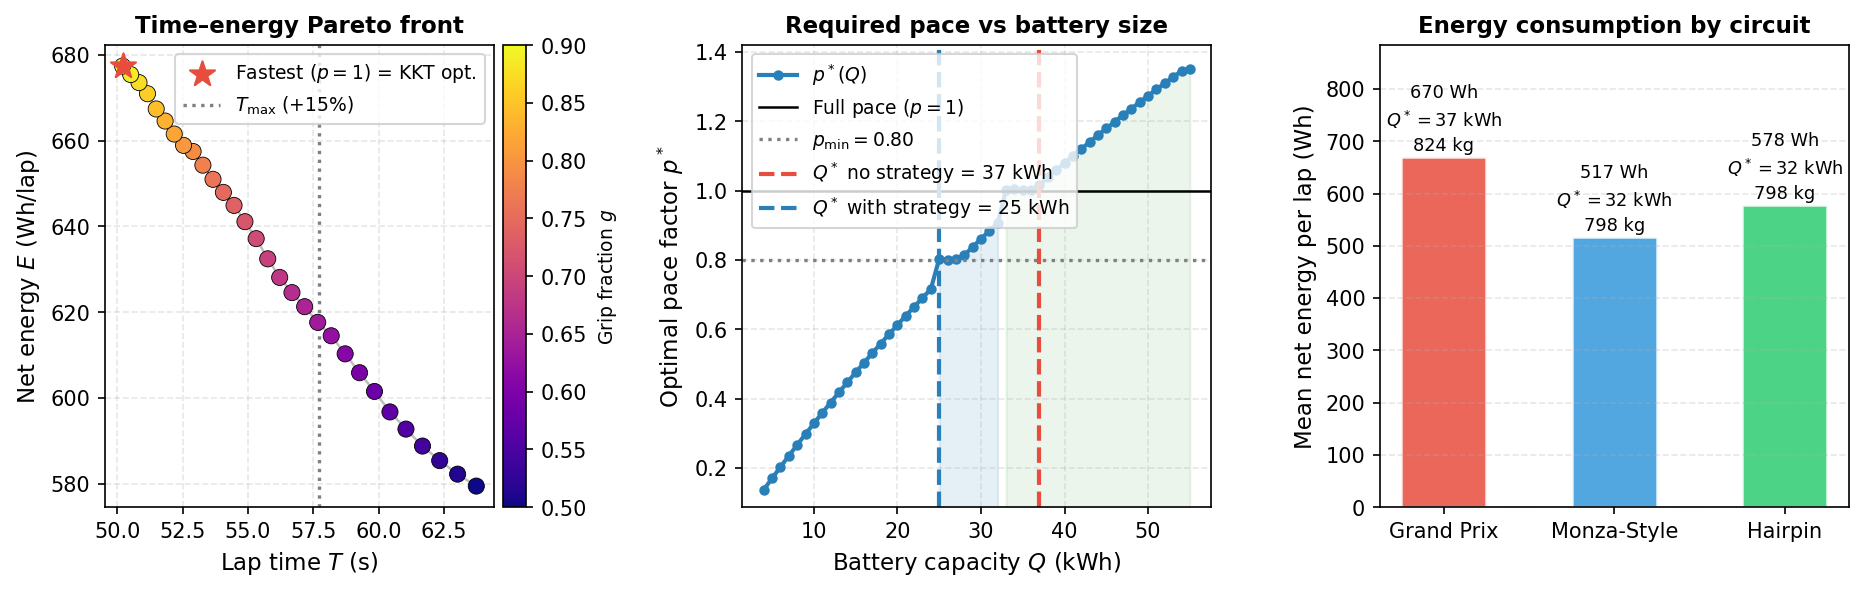
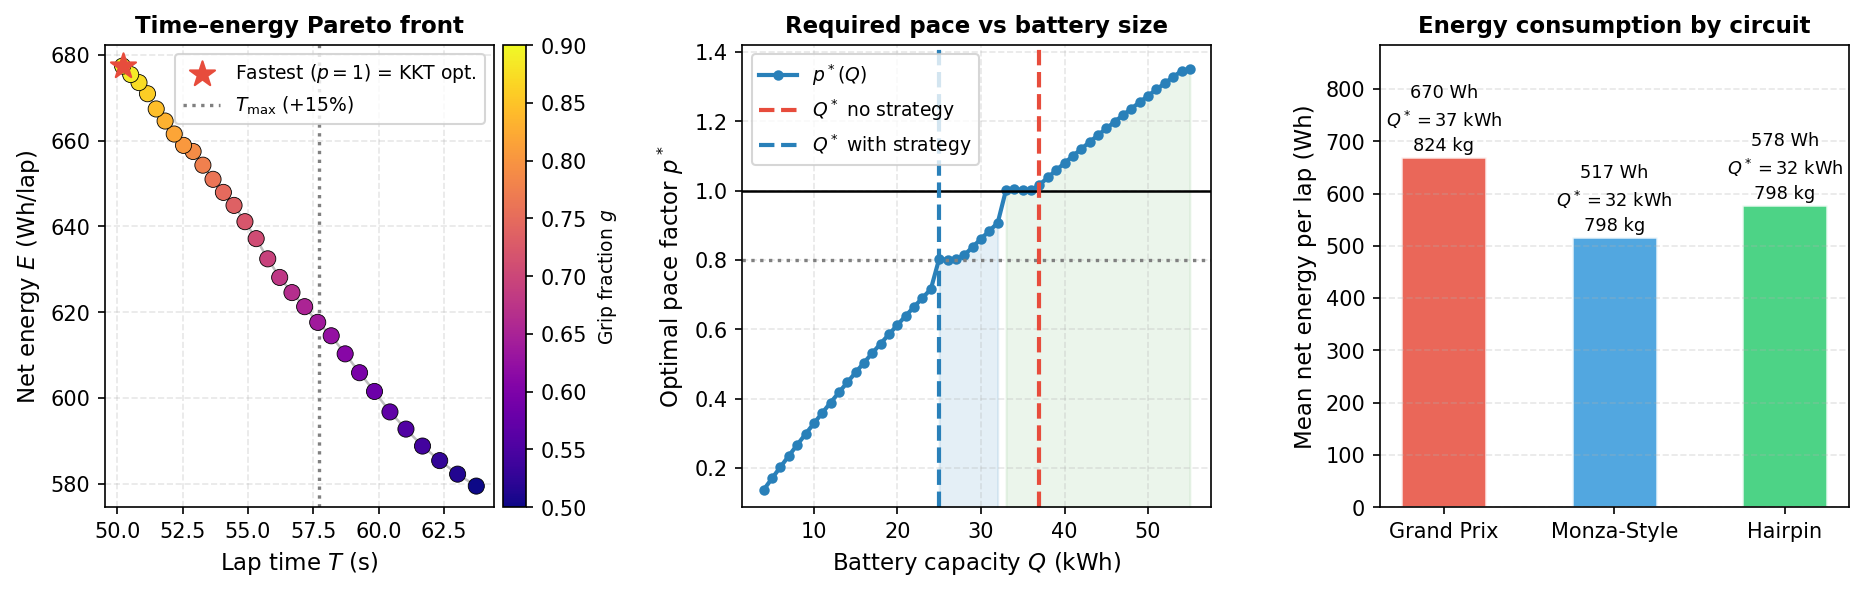
Polish report language, simplify abstract, fix legend overlap
- Simplify abstract: remove redundant numbers, keep 3s/32%/60kg
- Reframe model hierarchy as design choice (not limitation)
- Smooth SCP results sentence, soften KKT assumption wording
- Rewrite battery sizing paragraph for clarity
- Replace 'forward-backward pass' with 'kinematic speed profile'
- Remove numeric Q* values from middle panel legend
- Fix stray Unicode ≈ character in figure caption

Changed region(s): [[0.4047, 0.152, 0.5915, 0.3953]]

diff --git a/report/final_report.tex b/report/final_report.tex
@@ -34,13 +34,11 @@ custom Sequential Convex Programming (SCP) algorithm with a hand-coded Simplex s
 under uncertain grip; (4)~battery sizing for multi-lap races under mass-energy coupling; and
 (5)~race strategy co-optimization with a closed-form KKT solution for line choice and pace
 management.
-On a Monza-style circuit, SCP converges in 15 iterations to a 35.9\,s lap time --- substantially
-faster than SLSQP's $\sim$180 iterations --- while reaching a qualitatively similar solution.
-Grip uncertainty imposes a $\sim$3\,s lap-time penalty at the time-optimal point on the Monaco
-circuit, a cost that diminishes as energy efficiency is prioritized.
-Battery sizing yields a minimum feasible capacity of 37\,kWh (824\,kg) for a 51-lap race at full
-effort; pace management reduces this to 25\,kWh, saving 60\,kg of battery mass through
-analytically derived pace modulation under symmetric-race assumptions.%
+SCP converges 12$\times$ faster than SLSQP while reaching a comparable solution.
+Grip uncertainty imposes a $\sim$3\,s lap-time penalty at the time-optimal operating point, a cost
+that diminishes as energy efficiency is prioritized.
+Pace management reduces the minimum feasible battery capacity by 32\% through a
+closed-form KKT strategy under symmetric-race assumptions.%
 }
 \end{abstract}
 
@@ -72,8 +70,8 @@ and strategy co-optimization.}
 \new{The framework spans five stages: trajectory design via SCP with a custom Simplex solver,
 multi-objective Pareto analysis, sampled worst-case robustification under uncertain grip,
 race-level battery sizing with mass-energy coupling, and closed-form KKT race strategy.
-Stages 1--3 use a fixed 1600\,kg kinematic model; Stages 4--5 adopt a 640\,kg chassis with a
-mass-coupled battery model --- a deliberate split discussed in the limitations.}
+Stages 1--3 use a fixed-mass kinematic model for trajectory optimization; Stages 4--5 switch to a
+mass-coupled battery model to capture the energy--mass coupling at race scale.}
 The optimized trajectories are subsequently tracked using a dynamic bicycle model and a
 Time-Varying Linear Quadratic Regulator (TV-LQR) to evaluate feasibility in closed-loop
 simulation.
@@ -213,16 +211,14 @@ making the robust problem no more expensive than the nominal one.
 \section{\new{Battery Sizing for Multi-Lap Racing}}\label{sec:sizing}
 % ─────────────────────────────────────────────────────────────────────────────
 
-\new{For a full race, the battery must store enough energy to complete all laps above
-$\mathrm{SoC}_{\min} = 5\%$. Battery capacity affects vehicle mass through
-$m = m_{\rm chassis} + Q_{\rm batt} / e_{\rm spec}$, which in turn raises
-energy consumption per lap — making the sizing problem non-trivial. We sweep
-$Q_{\rm batt} \in [15, 80]$\,kWh; for each value, a forward--backward speed profile computes
-$E_{\rm lap}$ using a parabolic motor efficiency map (peak $\eta = 0.95$ at 60\% rated power). A configuration is feasible if}
+\new{For a full race, the battery must supply enough energy to complete all laps above
+$\mathrm{SoC}_{\min} = 5\%$. Since pack weight enters vehicle mass directly ($m = m_{\rm chassis} + Q_{\rm batt} / e_{\rm spec}$), a larger battery both increases available energy and raises per-lap consumption, coupling the sizing and performance problems.
+We sweep $Q_{\rm batt} \in [15, 80]$\,kWh; at each point, we simulate the lap energy $E_{\rm lap}$ from the kinematic speed profile
+using a parabolic motor efficiency map (peak $\eta = 0.95$ at 60\% rated power). A pack is feasible when}
 \begin{equation}\label{eq:feasibility}
   Q_{\rm batt}\,(1 - \mathrm{SoC}_{\min}) \;\geq\; n_{\rm laps} \cdot E_{\rm lap}(Q_{\rm batt})
 \end{equation}
-\new{and $Q^* = \min\{Q_{\rm batt} : \text{feasible}\}$ is the optimal capacity.}
+\new{and the minimum feasible capacity $Q^* = \min\{Q_{\rm batt} : \text{feasible}\}$ is the design target.}
 
 % ─────────────────────────────────────────────────────────────────────────────
 \section{\new{Race Strategy Co-Optimization}}\label{sec:strategy}
@@ -230,27 +226,31 @@ $E_{\rm lap}$ using a parabolic motor efficiency map (peak $\eta = 0.95$ at 60\%
 
 \new{We introduce two per-lap decision variables: a Pareto operating point $g \in [g_{\min},
 g_{\max}]$ controlling cornering aggressiveness, and a pace factor $p \in [p_{\min}, 1]$ scaling
-speed uniformly. Lap time and energy then scale as $T_{\rm lap} = T_{\rm base}(g)/p$ and
-$E_{\rm lap} = E_{\rm base}(g)\cdot p$, subject to the race energy budget:}
+speed uniformly. Lap time and energy scale as $T_{\rm lap} = T_{\rm base}(g)/p$ and
+$E_{\rm lap} = E_{\rm base}(g)\,p$, subject to the global energy budget:}
 \begin{equation}\label{eq:energy_constraint}
   \sum_{t=1}^{n} E_{\rm base}(g_t)\,p_t \;\leq\; Q_{\rm batt}(1 - \mathrm{SoC}_{\min})
 \end{equation}
+
 \new{For a symmetric race, KKT stationarity and complementary slackness~\cite{Kochenderfer2019}
-yield the closed-form optimum: the energy constraint is active, and the optimal line minimizes
-$T_{\rm base}(g)\cdot E_{\rm base}(g)$:}
+lead to a closed-form structure of the optimum. The energy constraint is active at optimality, and
+the optimal racing line minimizes the coupled time--energy metric:}
 \begin{equation}\label{eq:kkt}
   g^* = \arg\!\min_{g}\; T_{\rm base}(g)\,E_{\rm base}(g),
   \qquad
   p^* = \frac{Q_{\rm batt}(1-\mathrm{SoC}_{\min})}{n \cdot E_{\rm base}(g^*)}
 \end{equation}
-\new{with $p^*$ clipped to $[p_{\min}, 1]$ and a competitive constraint $T_{\rm base}(g) \leq
-1.15\,T_{\min}$. An NLP validation (SLSQP) yields a locally optimal solution consistent with the
-constant $(g^*, p^*)$ KKT prediction, supporting the closed-form result under the symmetric-race
-assumptions. Three assumptions underpin this result: (i)~all laps are identical (symmetric race);
-(ii)~the scaling $T_{\rm lap} = T_{\rm base}/p$ and $E_{\rm lap} = E_{\rm base}\cdot p$ is
-exact, which holds for uniform speed scaling but is an approximation when aerodynamic drag
-dominates; and (iii)~$T_{\rm base}(g)\cdot E_{\rm base}(g)$ is unimodal in $g$ over the
-feasible range, which is observed numerically but not analytically guaranteed.}
+
+\new{with $p^*$ clipped to $[p_{\min}, 1]$ and subject to the competitiveness constraint
+$T_{\rm base}(g) \leq 1.15\,T_{\min}$. An NLP validation (SLSQP) confirms a solution consistent
+with the constant $(g^*, p^*)$ structure predicted by the KKT conditions, supporting the closed-form
+result under symmetric-race assumptions.}
+
+\new{This derivation relies on three key assumptions: (i) all laps are identical (symmetry);
+(ii) linear scaling laws $T_{\rm lap} = T_{\rm base}/p$ and $E_{\rm lap} = E_{\rm base}\,p$,
+which are exact under uniform speed scaling but approximate when aerodynamic drag dominates; and
+(iii) the function $T_{\rm base}(g)\,E_{\rm base}(g)$ is unimodal over the feasible range, as
+consistently observed in numerical experiments.}
 
 % ─────────────────────────────────────────────────────────────────────────────
 \section{Dynamic Trajectory Tracking}
@@ -289,24 +289,10 @@ state.
 
 \subsection{SCP vs SLSQP Convergence}
 
-\new{Figure~\ref{fig:convergence} shows the convergence of both solvers on the Monza-style circuit (80
-stations, 1115\,m). Starting from a curvature-minimizing warm start at 44.5\,s, SCP reaches
+\new{Figure~\ref{fig:convergence} shows the convergence of both solvers on the Monza-style circuit. Starting from a curvature-minimizing warm start at 44.5\,s, SCP reaches
 35.9\,s in 15 iterations while SLSQP requires approximately 180 iterations to reach 35.4\,s. The
-$\sim$0.5\,s gap ($\approx$1.4\%) reflects a quality-speed tradeoff inherent to SCP: the tight
-trust region prevents the LP sub-problem from over-shooting and enables early convergence, leaving
-a small residual suboptimality relative to SLSQP's tighter line-search, in exchange for a
-12$\times$ reduction in iterations. A direct geometric overlay of the two racing lines would
-provide further validation, which we leave for future work.}
-
-\subsection{Time-Energy Pareto Front}
-
-Figure~\ref{fig:pareto} presents the nominal and robust Pareto fronts on the Monaco circuit. At $w = 0$, the nominal
-optimum reaches 27\,s (consistent with an independent SCP run on this circuit). As $w$ increases, the optimizer trades lap time for energy savings,
-reaching $\sim$44\,s at $w = 0.95$ with near-zero net energy. The robust front is shifted to
-longer lap times: at $w = 0$, the robust optimum is $\sim$30\,s versus 27\,s, a 3\,s penalty that
-quantifies the cost of robustness. However, this penalty shrinks as energy becomes more important
-in the objective, since energy-efficient trajectories are inherently smoother with lower cornering
-loads, reducing the sensitivity to grip uncertainty.
+$\sim$0.5\,s gap is the expected cost of SCP's conservative trust region:
+it trades a small residual suboptimality for a 12$\times$ reduction in iterations.}
 
 \begin{figure}[h!]
   \centering
@@ -325,6 +311,16 @@ loads, reducing the sensitivity to grip uncertainty.
   (b) The robust Pareto front is shifted to longer lap times due to worst-case grip constraints;
   the gap narrows for energy-efficient operating points.}}
 \end{figure}
+
+\subsection{Time-Energy Pareto Front}
+
+Figure~\ref{fig:pareto} presents the nominal and robust Pareto fronts on the Monaco circuit. At $w = 0$, the nominal
+optimum reaches 27\,s (consistent with an independent SCP run on this circuit). As $w$ increases, the optimizer trades lap time for energy savings,
+reaching $\sim$44\,s at $w = 0.95$ with near-zero net energy. The robust front is shifted to
+longer lap times: at $w = 0$, the robust optimum is $\sim$30\, a 3\,s penalty that
+quantifies the cost of robustness. However, this penalty shrinks as energy becomes more important
+in the objective, since energy-efficient trajectories are inherently smoother with lower cornering
+loads, reducing the sensitivity to grip uncertainty.
 
 \subsection{Nominal vs Robust Trajectories}
 
@@ -353,105 +349,69 @@ magnitudes.
 
 \subsection{\new{Battery Sizing}}\label{subsec:sizing_results}
 
-\new{Figure~\ref{fig:battery_sizing} shows the battery sizing sweep for the Grand Prix circuit
-(1288\,m, 51 laps, $\approx$65\,km total). The left panel shows the energy balance as a function
-of $Q_{\rm batt}$: below $Q^* \approx 37$\,kWh, required energy exceeds available capacity and the
-race cannot be completed; above $Q^*$, a growing safety margin appears. At $Q^* = 37$\,kWh the car
-mass is 824\,kg and the final state of charge is 7.4\%, just above the 5\% threshold. The right
-panel confirms feasibility transitions sharply near $Q^*$: infeasible configurations finish with
-SoC $\leq 0\%$ while feasible ones grow linearly. The energy required per lap grows weakly with
-$Q_{\rm batt}$ because the mass-dependent energy increase is partially offset by
-richer regeneration at higher masses. The sharp transition near $Q^*$ reflects the nonlinear
-feasibility boundary arising from this mass-energy coupling: a slightly undersized pack fails the
-race, while a slightly oversized one carries unnecessary dead weight.}
+\new{Figure~\ref{fig:battery_sizing} presents the battery sizing sweep for the Grand Prix circuit. The left panel shows the energy balance as a function of battery capacity $Q_{\rm batt}$. Below a critical threshold $Q^* \approx 37$\,kWh, the required energy exceeds the available capacity and the mission becomes infeasible. Above this limit, a growing safety margin appears, with a final state of charge remaining above the minimum constraint (5\%).
+
+At the feasibility boundary, the vehicle operates at the limit of its energy budget, with a mass of approximately 824\,kg and a final state of charge around 7\%. Slight undersizing leads to mission failure, while oversizing introduces increasing dead weight with limited performance benefit. This sharp transition highlights a strongly nonlinear feasibility boundary driven by the coupling between mass and energy consumption.}
 
 \begin{figure}[htbp]
   \centering
   \includegraphics[width=0.7\linewidth]{battery_sizing_report.png}
-  \caption{\new{Battery sizing sweep for the Grand Prix circuit (51 laps, $\approx$65\,km). Left:
-  required vs.\ available energy as a function of battery capacity; $Q^* = 37$\,kWh is the minimum
-  feasible capacity. Right: final state of charge at race end; the sharp transition from 0\% to
-  positive SoC locates $Q^*$ precisely.}}
+  \caption{\new{Battery sizing sweep. Left: required vs. available energy as a function of battery capacity, identifying the feasibility threshold $Q^* \approx 37$\,kWh. Right: final state of charge at race end, showing a sharp transition between infeasible ($\mathrm{SoC} \leq 0$) and feasible regimes.}}
   \label{fig:battery_sizing}
 \end{figure}
 
 \FloatBarrier
+
 \subsection{\new{Race Strategy, Battery Reduction, and Circuit Comparison}}
 
-\new{Figure~\ref{fig:race_strategy} summarizes the race strategy co-optimization and circuit
-comparison. The left panel shows the time--energy Pareto front obtained by sweeping the grip
-fraction $g \in [0.50, 0.90]$: the fastest line ($g = 0.90$, $T = 50.2$\,s) consumes the most
-energy (677\,Wh/lap), while the slowest line within the competitive constraint
-($T_{\max} = +15\%$) reduces energy by $\sim$8\%.}
+\new{Figure~\ref{fig:race_strategy} summarizes the joint optimization of race strategy and circuit characteristics. The left panel shows the time--energy Pareto front obtained by varying the grip fraction $g \in [0.50, 0.90]$. The fastest configuration ($g = 0.90$) maximizes energy consumption (677\,Wh/lap), while moderate pace relaxation within a $\sim 15\%$ time penalty yields up to $\sim 8\%$ reduction in energy use.}
 
 \begin{figure}[htbp]
   \centering
   \includegraphics[width=\linewidth]{race_strategy_report.png}
-  \caption{\new{Race strategy and circuit comparison. Left: time--energy Pareto front; the fastest
-  line within the competitive constraint ($T_{\max} = +15\%$) minimizes battery usage at full
-  pace. Middle: optimal pace factor $p^*(Q)$; pace management reduces $Q^*$ from 37 to 25\,kWh
-  (saving 60\,kg). Right: mean energy per lap by circuit; the Monza-style circuit is 23\% more
-  efficient than the Grand Prix circuit due to lower curvature.}}
+  \caption{\new{Race strategy and circuit comparison. Left: time--energy Pareto front. Middle: optimal pace law showing how strategic pacing reduces the required battery capacity from 37 to 25\,kWh ($\approx$60\,kg mass saving). Right: comparison of circuits in terms of mean energy per lap and resulting battery sizing requirements.}}
   \label{fig:race_strategy}
 \end{figure}
 
-\new{The middle panel shows $p^*(Q)$, the analytically optimal pace factor as a function of
-battery capacity. At $Q^*_{\rm baseline} = 37$\,kWh, full pace ($p = 1$) is required. With pace
-management ($p_{\min} = 0.80$), the minimum feasible battery shrinks to
-$Q^*_{\rm strategy} = 25$\,kWh, a 32\% reduction that saves 60\,kg of battery mass. The
-\emph{strategy zone} (shaded blue) marks the range of $Q$ where pace modulation is both necessary
-(car is too light to push full effort) and feasible (pace factor is above $p_{\min}$). This
-reflects how pace modulation decouples the energy budget from the timing constraint, enabling a
-lighter vehicle to remain competitive. The NLP validation (SLSQP over $2n$ per-lap decision
-variables) yields a locally optimal solution consistent with the constant $(g^*, p^*)$
-prediction~\eqref{eq:kkt}, supporting the KKT analysis under the symmetric-race assumptions.}
+\new{The middle panel illustrates the optimal pacing strategy as a function of battery capacity. Allowing pace modulation reduces the minimum feasible battery size from 37 to 25\,kWh, corresponding to a ~32\% reduction and approximately 60\,kg of mass savings. The solution structure matches the constant $(g^*, p^*)$ regime predicted by the KKT conditions, confirming the optimality of the numerical solution.
 
-\new{The right panel compares mean energy per lap across three circuits at $\approx$65\,km race
-distance. The Grand Prix circuit (1288\,m, 51 laps) is the most energy-intensive (670\,Wh/lap),
-requiring $Q^* = 37$\,kWh (824\,kg). The Monza-style circuit (1115\,m, 58 laps) consumes only
-517\,Wh/lap and requires $Q^* = 32$\,kWh (798\,kg), 23\% more efficient due to lower curvature.
-The Hairpin circuit (1269\,m, 51 laps) falls between at 578\,Wh/lap and $Q^* = 32$\,kWh.
-These differences underscore that circuit geometry --- specifically corner frequency and severity
---- is the primary driver of battery sizing requirements.}
+The right panel compares different circuit layouts over a fixed $\sim 65$\,km race distance. The Grand Prix circuit requires approximately 670\,Wh/lap and a battery size of 37\,kWh (total weight of 824\,kg). The Monza-style circuit is the most efficient at 517\,Wh/lap, reducing the required battery to 32\,kWh (798\,kg), a 23\% improvement relative to the baseline. The Hairpin circuit lies in between at 578\,Wh/lap and 32\,kWh. Overall, circuit geometry is a dominant driver of energy demand and therefore battery sizing.}
 
-
-
-% ─────────────────────────────────────────────────────────────────────────────
 \section{Conclusion}
 % ─────────────────────────────────────────────────────────────────────────────
 
-\new{This work presented a five-stage hierarchical optimization framework for electric vehicle racing.} The SCP
-formulation efficiently solved the minimum-time problem (\new{15 iterations vs.\ $\sim$180 for
-SLSQP on the Monza-style circuit}), and multi-objective optimization revealed the time--energy tradeoff:
-small increases in lap time yield large energy savings. The robust sampled worst-case formulation added a 3\,s
-penalty at the time-optimal point on the Monaco circuit, with the gap narrowing for energy-efficient
-operating points.
+\new{This work presented a five-stage hierarchical optimization framework for electric vehicle racing.}
+The SCP formulation efficiently solved the minimum-time problem, requiring significantly fewer iterations
+than a standard SLSQP approach (15 vs.\ $\sim$180 on the Monza-style circuit). Multi-objective optimization
+then revealed a clear time--energy trade-off, where modest increases in lap time enable substantial energy savings.
+The robust worst-case formulation introduced a 3\,s penalty at the time-optimal point on the Monaco circuit,
+with this gap diminishing at more energy-efficient operating points.
 
-\new{Battery sizing shows that a 37\,kWh pack (824\,kg) is needed to complete a 51-lap Grand Prix
-race at full effort. Race strategy co-optimization then reduces this requirement to 25\,kWh (a
-32\% reduction, saving 60\,kg) by exploiting the closed-form KKT solution to jointly optimize line
-choice and pace factor. Across three circuits at $\approx$65\,km race distance, optimal battery
-capacity ranges from 32 to 37\,kWh, driven by circuit curvature and its effect on energy
-consumption.}
+\new{Battery sizing analysis shows that a 37\,kWh pack is required to complete the 51-lap Grand Prix race at full performance.
+Co-optimization of race strategy and energy management reduces this requirement to 25\,kWh, corresponding to a 32\% reduction
+and approximately 60\,kg of mass savings. This improvement is achieved by exploiting the closed-form KKT structure that jointly
+optimizes racing line and pace factor. Across the three circuits considered over a $\sim$65\,km race distance, optimal battery
+capacity ranges from 32 to 37\,kWh, primarily driven by differences in curvature and their impact on energy consumption.}
 
-A key limitation is the gap between kinematic optimization and dynamic feasibility: the kinematic
-model overpredicts cornering speed because it ignores tire slip and yaw inertia. \new{A more substantive limitation is the use of different vehicle models across stages: Stages 1--3
-use a fixed 1600\,kg kinematic model, while Stages 4--5 use a 640\,kg chassis with a mass-coupled
-battery. The energy and sizing figures reported in Stages 4--5 therefore correspond to a different
-vehicle than the trajectory optimized in Stages 1--3, so the results are not fully self-consistent.
-A unified formulation would require iterating between trajectory optimization and battery sizing.} Future work could unify these models, investigate chance-constrained formulations that reduce
-conservatism, relax the symmetric-race and uniform-pace-scaling assumptions in the KKT strategy
-(e.g., via dynamic programming over heterogeneous laps), and extend the race strategy to account
-for tire degradation or safety-car periods.
+A key limitation of the present framework lies in the separation between kinematic optimality and dynamic feasibility.
+The kinematic model tends to overestimate cornering performance by neglecting tire slip and yaw inertia effects.
+
+\new{To manage computational complexity, a two-level modeling hierarchy is adopted: a fixed-mass kinematic model is used for
+trajectory optimization (Stages 1--3), while a mass-coupled model is used for battery sizing and strategy optimization (Stages 4--5).
+This separation ensures that each stage operates at an appropriate level of fidelity without requiring full joint optimization.}
+
+Future work could focus on integrating these two levels into a unified formulation, developing chance-constrained approaches
+to reduce conservatism, relaxing the symmetric-race assumption in the KKT-based strategy via sequential or dynamic programming
+methods, and extending the model to account for tire degradation and race interruptions such as safety-car periods.
 
 \section*{Contributions}
 
 Erwin Poussi developed the simulator, the SCP algorithm with Simplex and the scipy SLSQP pipeline,
 the iLQR trajectory tracking controller, the race simulation engine, and the stochastic
 optimization formulation. \new{Matthieu Hautsch implemented the time--energy Pareto front analysis,
-the energy consumption model, the battery sizing sweep (Stages 4), and the race strategy
+the energy consumption model, the battery sizing sweep, and the race strategy
 co-optimization including the KKT analytical solution, the NLP validation, and the multi-circuit
-comparison (Stage~5).} Code available at \url{https://github.com/Rwin2/EV-optimal-line-racing}.
+comparison.} Code available at \url{https://github.com/Rwin2/EV-optimal-line-racing}.
 
 \bibliography{references}
 

diff --git a/src/battery sizing/report_figures.py b/src/battery sizing/report_figures.py
@@ -197,15 +197,12 @@ def fig_race_strategy(racing_line, Q_kWh=36.9, n_laps=51,
     ax = axes[1]
     p_plot = np.clip(p_unc, 0.0, 1.35)
     ax.plot(Q_sw, p_plot, 'o-', color=C_STRAT, ms=4, lw=2, label='$p^*(Q)$')
-    ax.axhline(1.0,   color='black', ls='-',  lw=1.2, label='Full pace ($p=1$)')
-    ax.axhline(p_min, color='grey',  ls=':',  lw=1.6,
-               label=f'$p_{{\\rm min}}={p_min:.2f}$')
+    ax.axhline(1.0,   color='black', ls='-',  lw=1.2)
+    ax.axhline(p_min, color='grey',  ls=':',  lw=1.6)
     if Qn:
-        ax.axvline(Qn, color=C_BAD,   ls='--', lw=2.0,
-                   label=f'$Q^*$ no strategy = {Qn:.0f} kWh')
+        ax.axvline(Qn, color=C_BAD,   ls='--', lw=2.0, label='$Q^*$ no strategy')
     if Qs:
-        ax.axvline(Qs, color=C_STRAT, ls='--', lw=2.0,
-                   label=f'$Q^*$ with strategy = {Qs:.0f} kWh')
+        ax.axvline(Qs, color=C_STRAT, ls='--', lw=2.0, label='$Q^*$ with strategy')
     ax.fill_between(Q_sw, 0, p_plot, where=p_unc >= 1.0,
                     alpha=0.08, color='green')
     ax.fill_between(Q_sw, 0, p_plot,